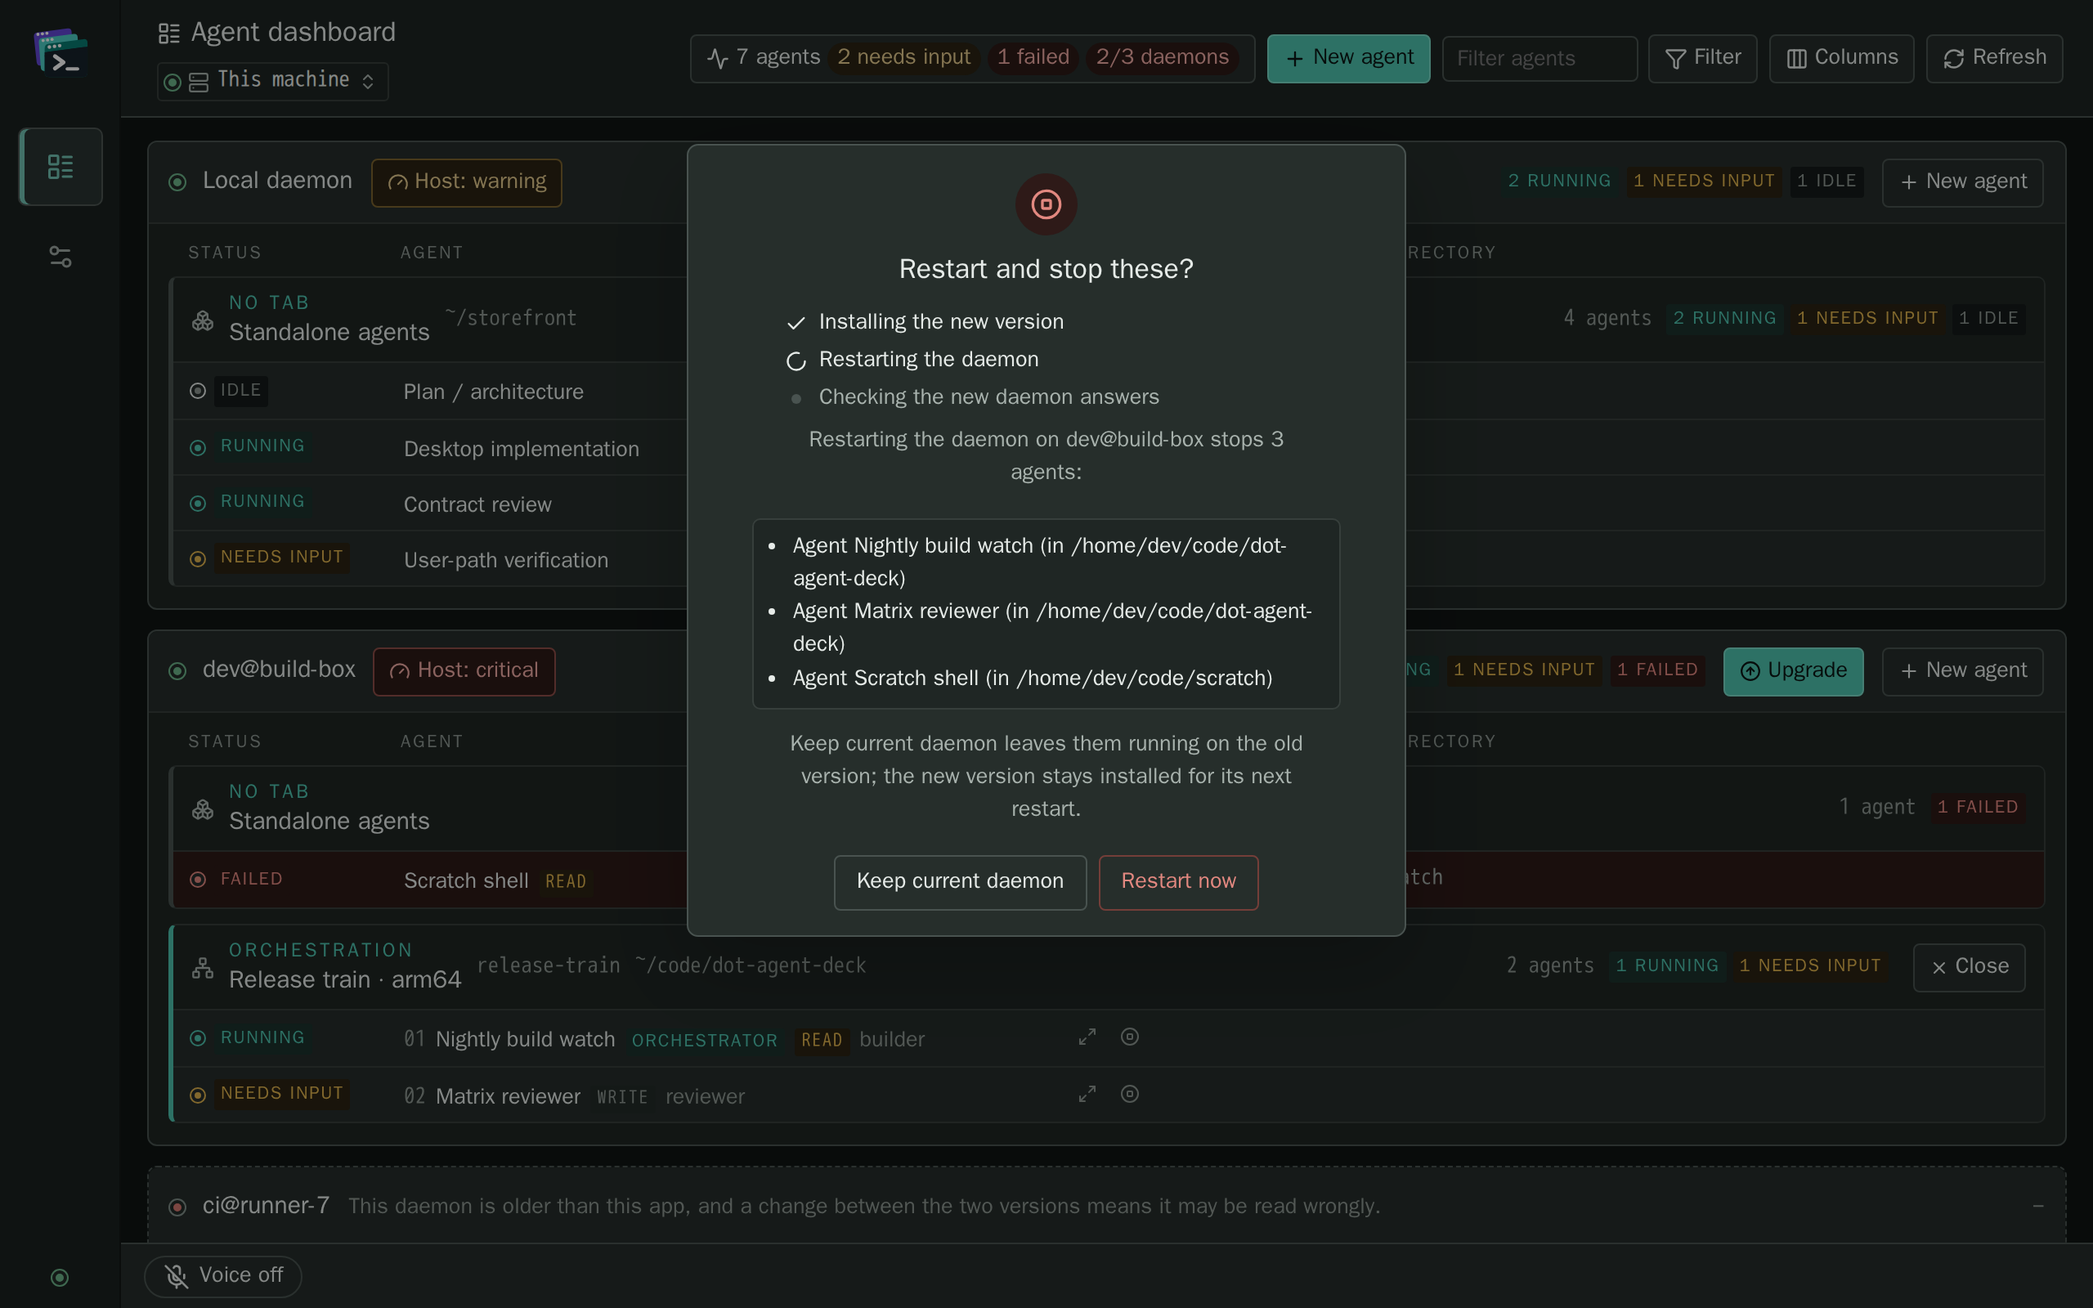
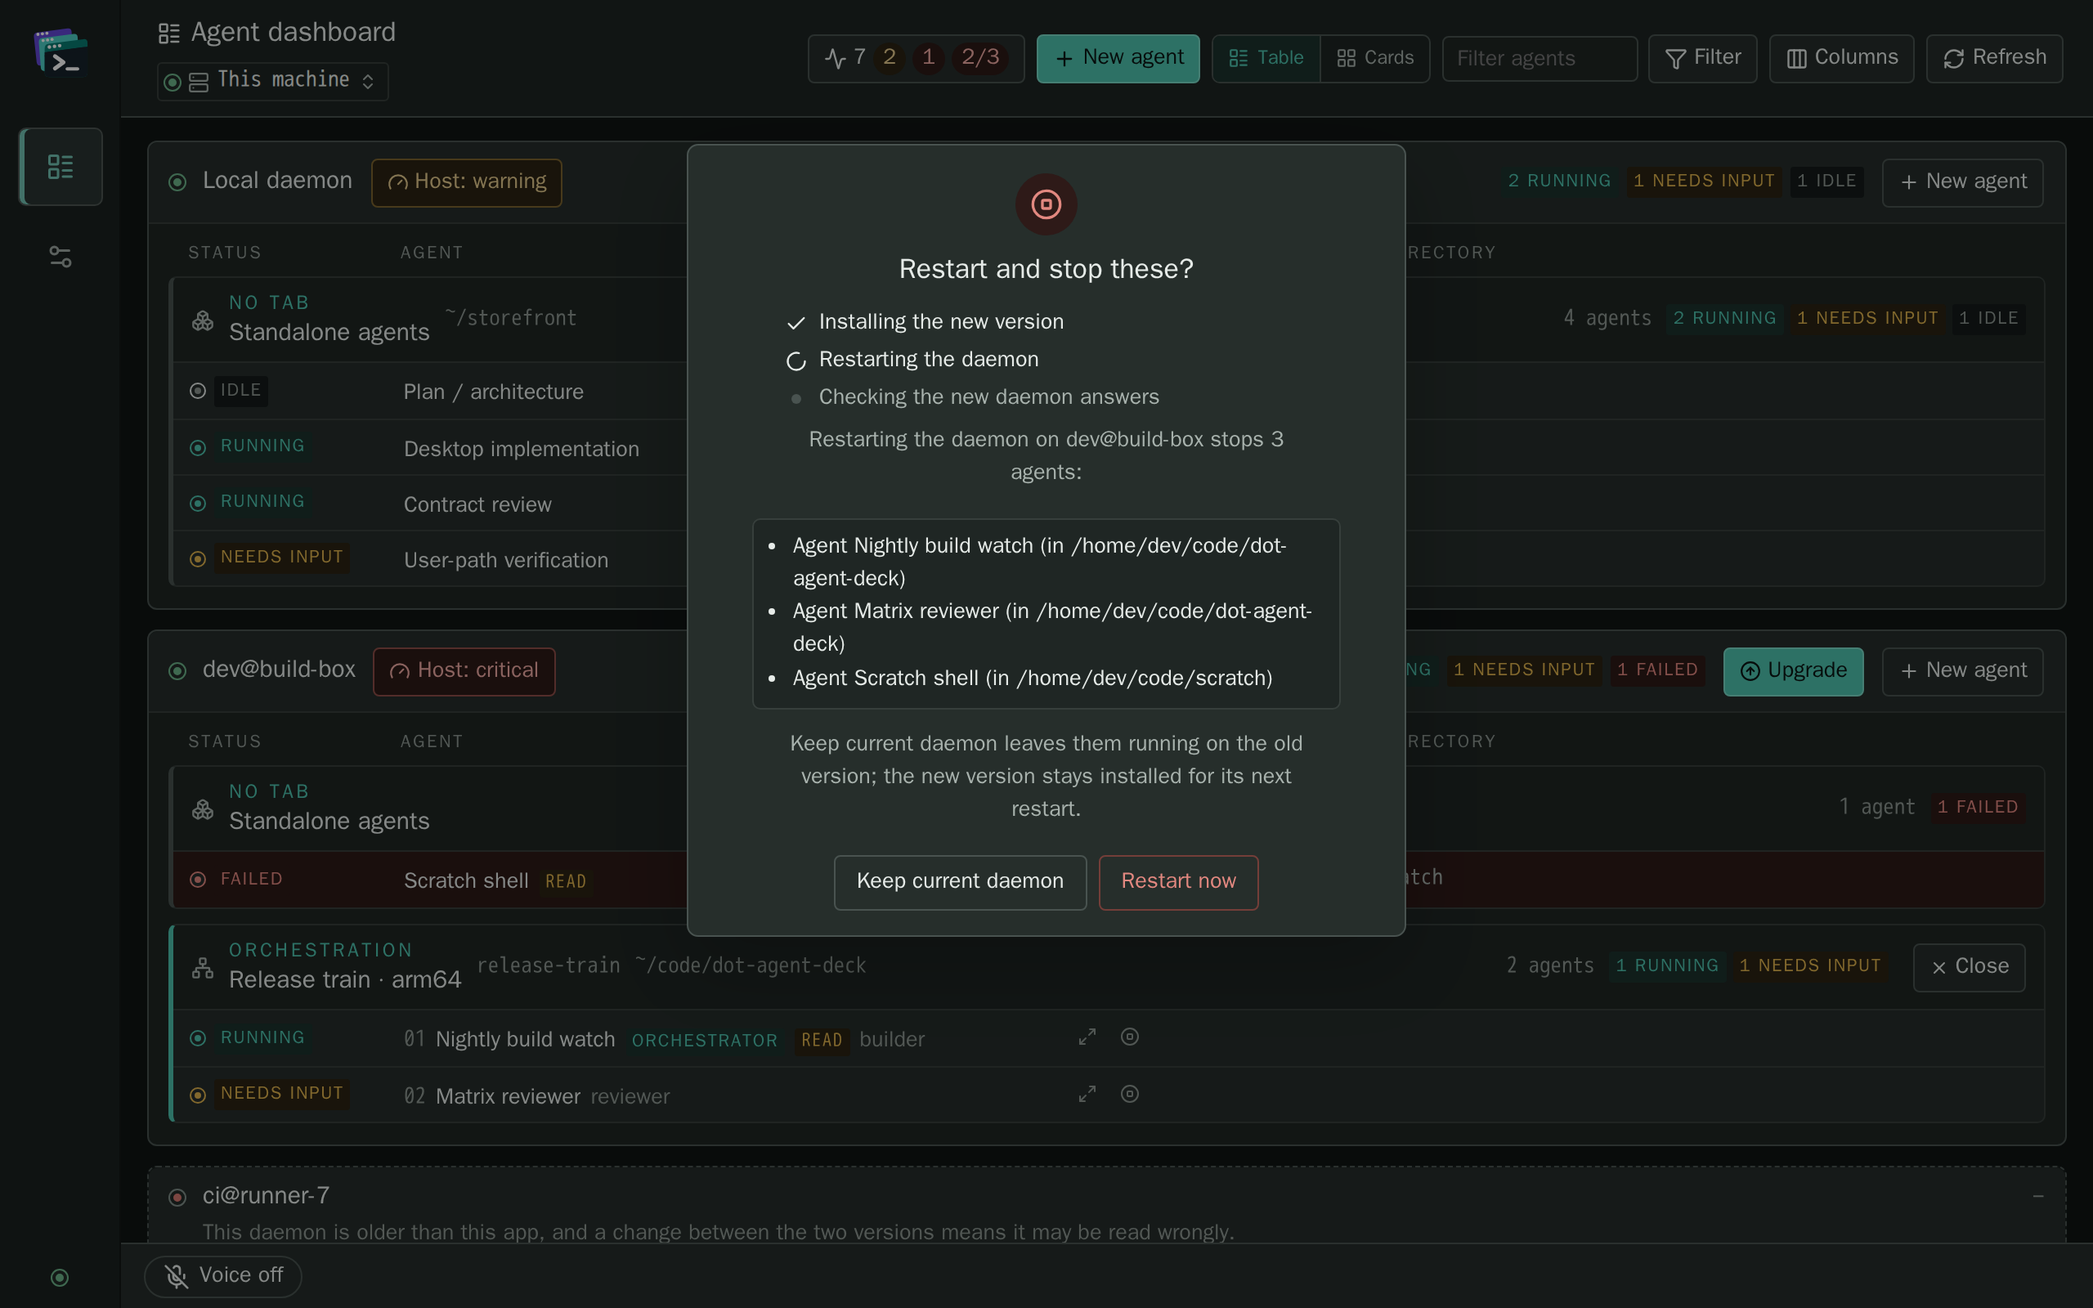
fix(desktop): put a deck's connection message on its own line below the header row (#2406)
The deck header rendered its connection message inline in the same flex
row as the lamp, the name, the Host button, the status pips and the
Upgrade / Stop daemon / New agent buttons. A full sentence there (the
connected-anyway caveat issue #801 keeps on screen all session) took the
row's width: the Host button overlapped the name, the pips stacked and
button labels wrapped.

The header is now a column: the controls row keeps the old layout, and
the message, when there is one, sits on its own line below it and wraps
instead of being ellipsised. With no message there is no second line and
the header is as tall as before.

A new Playwright spec (desktop/e2e/deck-header-message.spec.ts) measures
the row in a real engine: it failed on main (pips on three lines) and
passes now. The daemon-upgrade desktop screenshot, whose refused deck
carries a message, is regenerated.

diff --git a/desktop/e2e/deck-header-message.spec.ts b/desktop/e2e/deck-header-message.spec.ts
@@ -1,0 +1,178 @@
+import { expect, type Locator, type Page } from "@playwright/test";
+import { test } from "./support/load-budget";
+
+/**
+ * Issue #2406 — a deck's connection message on the dashboard, as a reader sees
+ * it in an engine that lays out.
+ *
+ * The message used to sit inline in the deck's header row, beside the lamp,
+ * the name, the Host button, the status pips, Upgrade, Stop daemon and New
+ * agent. A full sentence there — the connected-anyway caveat issue #801 keeps
+ * on screen for the whole session — took the row's width from everything else:
+ * the Host button overlapped the name, the pips stacked, and button labels
+ * wrapped. jsdom computes no geometry, so this is the tier that can see it.
+ */
+
+const DECK = "deck-0000000000002406";
+/** The connected-anyway message, as `daemon_bridge.rs` words it for a session allowance. */
+const CONNECTED_ANYWAY = "This daemon is older than this app. You chose to connect anyway for this session, so some of what this daemon shows may be wrong. Update the daemon to this app's version.";
+const GiB = 1024 ** 3;
+
+function snapshot(message: { text: string; mismatch: boolean } | undefined) {
+  // Four distinct pips: running, needs input, failed, idle.
+  const statuses = ["working", "idle", "waiting_for_input", "error"];
+  return {
+    connection: {
+      status: "connected", deckKind: "remote", deckId: DECK, socketPath: "deploy@build-box",
+      clientProtocolVersion: 10, serverProtocolVersion: 10,
+      clientBuildVersion: "0.51.0", daemonBuildVersion: message?.mismatch ? "0.50.0" : "0.51.0",
+      daemonDetected: true, runningAgentCount: statuses.length,
+      upgradeOffer: { kind: "offered", from: "0.50.0", to: "0.51.0" },
+      // The crate carries the connected-anyway sentence in `error` (the bridge maps it to the message).
+      ...(message ? { error: message.text, buildStampMismatchOnly: message.mismatch } : {}),
+    },
+    agents: statuses.map((status, index) => ({
+      id: `agent-${index}`, paneId: `pane-${index}`, displayName: `Agent ${index}`, agentType: "claude", status,
+      toolCount: 0, rows: 32, cols: 120, incarnation: `header-${index}`, tab: { kind: "dashboard" },
+    })),
+    protocolVersion: 10, source: "daemon", fleet: [DECK],
+    hostMetrics: { status: "available", metrics: {
+      disks: [{ role: "working_root", freeBytes: 128 * GiB, totalBytes: 512 * GiB }],
+      loadPerCpu: 0.5, cpuCount: 8, memoryUsedBytes: 8 * GiB, memoryAvailableBytes: 24 * GiB,
+      sampledAtMs: 1_700_000_000_000, sampleAgeMs: 1000,
+    } },
+  };
+}
+
+/**
+ * Load the dashboard against one live deck described by `initial`, with Tauri's
+ * IPC mocked. The deck is a remote one so its Upgrade is the daemon's own and
+ * the mock needs no answer for this machine's self-upgrade check; the header
+ * row carries the same controls either way.
+ */
+async function openDeck(page: Page, initial: ReturnType<typeof snapshot>): Promise<Locator> {
+  await page.setViewportSize({ width: 1280, height: 900 });
+  await page.addInitScript((initial) => {
+    const callbacks = new Map<number, (event: unknown) => void>();
+    let next = 0;
+    Object.defineProperty(window, "__TAURI_INTERNALS__", { value: {
+      transformCallback: (callback: (event: unknown) => void) => { const id = ++next; callbacks.set(id, callback); return id; },
+      unregisterCallback: (id: number) => callbacks.delete(id),
+      invoke: async (command: string, args: Record<string, unknown> = {}) => {
+        if (command === "plugin:event|listen") return args.handler;
+        if (command === "plugin:event|unlisten") return;
+        if (command === "desktop_bootstrap" || command === "desktop_get_snapshot") return initial;
+        if (command === "desktop_features") return {};
+        if (command === "desktop_get_settings") return { settings: { version: 1, appearance: { mode: "light" }, zoom: { level: 1 } } };
+        if (command === "desktop_set_zoom") return args.level;
+        return { ok: true };
+      },
+    } });
+    Object.defineProperty(window, "__TAURI_EVENT_PLUGIN_INTERNALS__", {
+      value: { unregisterListener: (_event: string, id: number) => callbacks.delete(id) },
+    });
+  }, initial);
+  await page.goto("/?live=1");
+  const card = page.locator(`[data-testid="daemon-group"][data-daemon-id="${DECK}"]`);
+  await expect(card).toHaveAttribute("data-deck-connected", "yes");
+  // Every control the row carries for this deck, so a missing one fails here
+  // rather than letting the geometry below pass on a shorter row.
+  for (const id of ["daemon-identity", "host-metrics-button", "daemon-upgrade", "daemon-stop", "daemon-new-agent"]) {
+    await expect(card.getByTestId(id)).toBeVisible();
+  }
+  await expect(card.locator(".daemon-pips .status-label")).toHaveCount(4);
+  return card;
+}
+
+type Box = { left: number; right: number; top: number; bottom: number };
+
+/**
+ * The header row's geometry: the name and Host button boxes, each pip's top,
+ * and how many lines each button label's text lays out on. A label's lines are
+ * read from a Range over its text, which reports one rectangle per line box —
+ * the element's own rect would be one box however many lines it holds.
+ */
+async function headerGeometry(card: Locator) {
+  return card.locator("header.daemon-group-header").evaluate((header) => {
+    const box = (element: Element | null): Box => {
+      if (!element) throw new Error("missing header element");
+      const rect = element.getBoundingClientRect();
+      return { left: rect.left, right: rect.right, top: rect.top, bottom: rect.bottom };
+    };
+    const lines = (element: Element): number => {
+      const range = document.createRange();
+      range.selectNodeContents(element);
+      return new Set([...range.getClientRects()].filter((rect) => rect.width > 0).map((rect) => Math.round(rect.top))).size;
+    };
+    const controls = ["daemon-identity", "host-metrics-button", "daemon-upgrade", "daemon-stop", "daemon-new-agent"]
+      .map((id) => header.querySelector(`[data-testid="${id}"]`));
+    return {
+      name: box(header.querySelector('[data-testid="daemon-identity"]')),
+      host: box(header.querySelector('[data-testid="host-metrics-button"]')),
+      pipTops: [...header.querySelectorAll(".daemon-pips .status-label")].map((pip) => Math.round(pip.getBoundingClientRect().top)),
+      pipLines: [...header.querySelectorAll(".daemon-pips .status-label")].map(lines),
+      labelLines: [...header.querySelectorAll("button > span")].map((label) => ({ label: label.textContent, lines: lines(label) })),
+      controls: controls.map(box),
+      message: header.querySelector('[data-testid="daemon-state"]') ? box(header.querySelector('[data-testid="daemon-state"]')) : undefined,
+      header: box(header),
+    };
+  });
+}
+
+/** The assertions both cases share: the row's controls keep their normal layout. */
+function expectRowIntact(geometry: Awaited<ReturnType<typeof headerGeometry>>) {
+  // The name and the Host button beside it do not overlap.
+  expect(geometry.name.right).toBeLessThanOrEqual(geometry.host.left);
+  // The pips sit on one line, each on one line.
+  expect(new Set(geometry.pipTops).size).toBe(1);
+  expect(geometry.pipLines.every((count) => count === 1)).toBe(true);
+  // Every button's label lays out on one line.
+  expect(geometry.labelLines.filter((entry) => entry.lines !== 1)).toEqual([]);
+  // The row's controls share one line: no control starts below another's bottom.
+  const lowestTop = Math.max(...geometry.controls.map((control) => control.top));
+  const highestBottom = Math.min(...geometry.controls.map((control) => control.bottom));
+  expect(lowestTop).toBeLessThan(highestBottom);
+}
+
+test.describe("a deck's connection message (issue #2406)", () => {
+  /**
+   * Scenario: open the dashboard on a connected-anyway deck whose header also
+   * carries the Host button, four status pips, Upgrade, Stop daemon and New
+   * agent. The caveat reads in full on its own line below the row, and the
+   * row's controls keep their layout: no overlap, pips on one line, button
+   * labels on one line.
+   */
+  test("goes on its own line below the header row and leaves the row's controls alone", async ({ page }) => {
+    const card = await openDeck(page, snapshot({ text: CONNECTED_ANYWAY, mismatch: true }));
+    const message = card.getByTestId("daemon-state");
+    await expect(message).toBeVisible();
+    await expect(message).toHaveText(CONNECTED_ANYWAY);
+
+    const geometry = await headerGeometry(card);
+    expectRowIntact(geometry);
+    // Below every control in the row, not beside them.
+    const rowBottom = Math.max(...geometry.controls.map((control) => control.bottom));
+    expect(geometry.message!.top).toBeGreaterThanOrEqual(rowBottom);
+    // Inside the header band, and not cut off: every character of the caveat
+    // issue #801 keeps on screen is laid out, not ellipsised away.
+    expect(geometry.message!.bottom).toBeLessThanOrEqual(geometry.header.bottom);
+    expect(await message.evaluate((node) => node.scrollWidth <= node.clientWidth)).toBe(true);
+  });
+
+  /**
+   * Scenario: open the dashboard on a healthy connected deck with the same
+   * controls. There is no message, so there is no message line and the header
+   * is one row tall.
+   */
+  test("adds no row when the deck has nothing to say", async ({ page }) => {
+    const card = await openDeck(page, snapshot(undefined));
+    await expect(card.getByTestId("daemon-state")).toHaveCount(0);
+
+    const geometry = await headerGeometry(card);
+    expectRowIntact(geometry);
+    expect(geometry.message).toBeUndefined();
+    // One row: the header is no taller than its 50px floor, which the row's
+    // controls fit inside.
+    expect(geometry.header.bottom - geometry.header.top).toBeLessThanOrEqual(50);
+  });
+});

diff --git a/desktop/src/components/AgentOverview.tsx b/desktop/src/components/AgentOverview.tsx
@@ -2181,6 +2181,12 @@ function DeckGroup({ deck, cardsBody, now, columns, filtering, fleetSize, overri
       aria-labelledby={titleId}
     >
       <header className="daemon-group-header">
+        {/*
+          Issue #2406: the row is its own box, so the connection message can
+          sit on a line of its own below it instead of competing with the
+          name, the Host button, the pips and the buttons for the row's width.
+        */}
+        <div className="daemon-group-header-row">
         <span className={`connection-lamp connection-${connection.status}`} aria-hidden="true" />
         <div className="daemon-identity">
           {/*
@@ -2192,14 +2198,6 @@ function DeckGroup({ deck, cardsBody, now, columns, filtering, fleetSize, overri
         </div>
         {/* PRD #1258: this deck's host, from its own daemon — a small button beside its name, coloured by the worst reading, that opens the numbers. Every deck in a fleet has its own. */}
         {deck.connected && deck.snapshot.hostMetrics && <HostMetricsButton report={deck.snapshot.hostMetrics} deckLabel={deckName(connection)} open={hostOpen} onOpen={onOpenHost} onClose={onCloseHost} />}
-        {/*
-          Only when it says something the lamp does not. The element is
-          not deleted — in the disconnected, incompatible and
-          connected-anyway states it carries the only explanation on the
-          header, including the build-mismatch caveat issue #801 requires
-          to survive the whole session.
-        */}
-        {messageSaysSomethingNew && <p className="daemon-state" data-testid="daemon-state">{daemonMessage ?? connection.status}</p>}
         {deck.connected && deck.agents.length > 0 && (
           <div className="daemon-pips">{deck.counts.map((entry) => (
             <span className={`status-label status-${entry.status}`} key={entry.status}>{entry.count} {statusLabel(entry.status)}</span>
@@ -2214,6 +2212,18 @@ function DeckGroup({ deck, cardsBody, now, columns, filtering, fleetSize, overri
         {onUpgrade && !upgradeInNote && <button type="button" className="button primary compact daemon-upgrade" data-testid="daemon-upgrade" aria-label={upgradeLabel ?? `Upgrade the daemon on ${connection.deckKind === "remote" ? deckName(connection) : "this machine"}`} title={upgradeTitle} onClick={onUpgrade}><CircleArrowUp size={13} /><span>Upgrade</span></button>}
         {(onStopDaemon || stopDaemonReason) && <button type="button" className="button secondary compact daemon-stop" data-testid="daemon-stop" aria-label={`Stop the daemon on ${connection.deckKind === "remote" ? deckName(connection) : "this machine"}`} title={stopDaemonReason ? displayTitle(stopDaemonReason) : undefined} disabled={!onStopDaemon} onClick={onStopDaemon}><CircleStop size={13} /><span>Stop daemon</span></button>}
         {onNewAgent && <button type="button" className="button secondary compact daemon-new-agent" data-testid="daemon-new-agent" aria-label={`New agent on ${deckName(connection)}`} onClick={onNewAgent}><Plus size={13} /><span>New agent</span></button>}
+        </div>
+        {/*
+          Only when it says something the lamp does not. The element is
+          not deleted — in the disconnected, incompatible and
+          connected-anyway states it carries the only explanation on the
+          header, including the build-mismatch caveat issue #801 requires
+          to survive the whole session. It has a line of its own below the
+          row and wraps rather than truncating, so the whole sentence reads
+          and the row's controls keep their layout whatever its length
+          (issue #2406); with no message there is no second line.
+        */}
+        {messageSaysSomethingNew && <p className="daemon-state" data-testid="daemon-state">{daemonMessage ?? connection.status}</p>}
       </header>
 
       {/* Issue #1637: this deck's agents' hooks run an older dot-agent-deck. */}

diff --git a/desktop/src/styles.css b/desktop/src/styles.css
@@ -1550,14 +1550,22 @@ button.deck-attention-name { text-decoration: underline; text-underline-offset: 
 /* The em dash where a connected deck's pips are, so "unknown" and "none" read
    differently on the same line. */
 .daemon-unknown { margin-left: auto; color: var(--faint); font-family: "JetBrains Mono", monospace; font-size: var(--text-base); }
-.daemon-group-header { min-height: 50px; padding: 9px 13px; display: flex; align-items: center; gap: 11px; border-bottom: 1px solid var(--line); background: var(--paper-strong); border-radius: var(--radius) var(--radius) 0 0; }
+/* Issue #2406: the header is a column — the row of controls, then the
+   connection message on a line of its own when there is one. The row keeps the
+   layout the header used to have; the 50px floor stays on the header, with the
+   row centred in it, so a deck with nothing to say is exactly as tall as it was. */
+.daemon-group-header { min-height: 50px; padding: 9px 13px; display: flex; flex-direction: column; justify-content: center; gap: 4px; border-bottom: 1px solid var(--line); background: var(--paper-strong); border-radius: var(--radius) var(--radius) 0 0; }
+.daemon-group-header-row { display: flex; align-items: center; gap: 11px; }
 /* One line, not two: the socket filename that used to sit under the name is
    gone from the layout and lives on the name's own `title` — it contained the
    very uid it was meant to keep out of a screenshot and said nothing a reader
    could act on (PRD #745). */
 .daemon-identity { min-width: 0; display: flex; flex-direction: column; gap: 3px; }
 .daemon-identity strong { font-size: var(--text-lg); font-weight: 720; }
-.daemon-state { min-width: 0; margin: 0; overflow: hidden; color: var(--faint); font-size: var(--text-base); text-overflow: ellipsis; white-space: nowrap; }
+/* Below the row, indented to start under the deck's name (the lamp's 9px plus
+   the row's 11px gap), and wrapping rather than ellipsised: it is the whole
+   explanation on the header, and issue #801's caveat has to read in full. */
+.daemon-state { margin: 0; padding-left: 20px; color: var(--faint); font-size: var(--text-base); overflow-wrap: anywhere; }
 .daemon-pips { margin-left: auto; display: flex; flex-wrap: wrap; gap: 5px; }
 .daemon-group-body { padding: 11px 12px 13px; }
 /* PRD #1258: the deck's host — a compact button beside the deck's name,

diff --git a/changelog.d/2406.bugfix.md b/changelog.d/2406.bugfix.md
@@ -1,0 +1,3 @@
+## Desktop: a daemon's connection message no longer squeezes its section header
+
+In the desktop app's dashboard, when a daemon's section header carried a message, such as the one after you chose **Connect anyway** ("This daemon is older than this app. You chose to connect anyway for this session, …"), the sentence shared one line with the daemon's name, the **Host** button, the agent counts and the **Upgrade**, **Stop daemon** and **New agent** buttons. The **Host** button overlapped the name, the counts stacked one below another, and button labels broke onto two lines. The message now sits on its own line below the header row and reads in full, and the header row keeps its normal layout. A daemon with no message gets no extra line.
